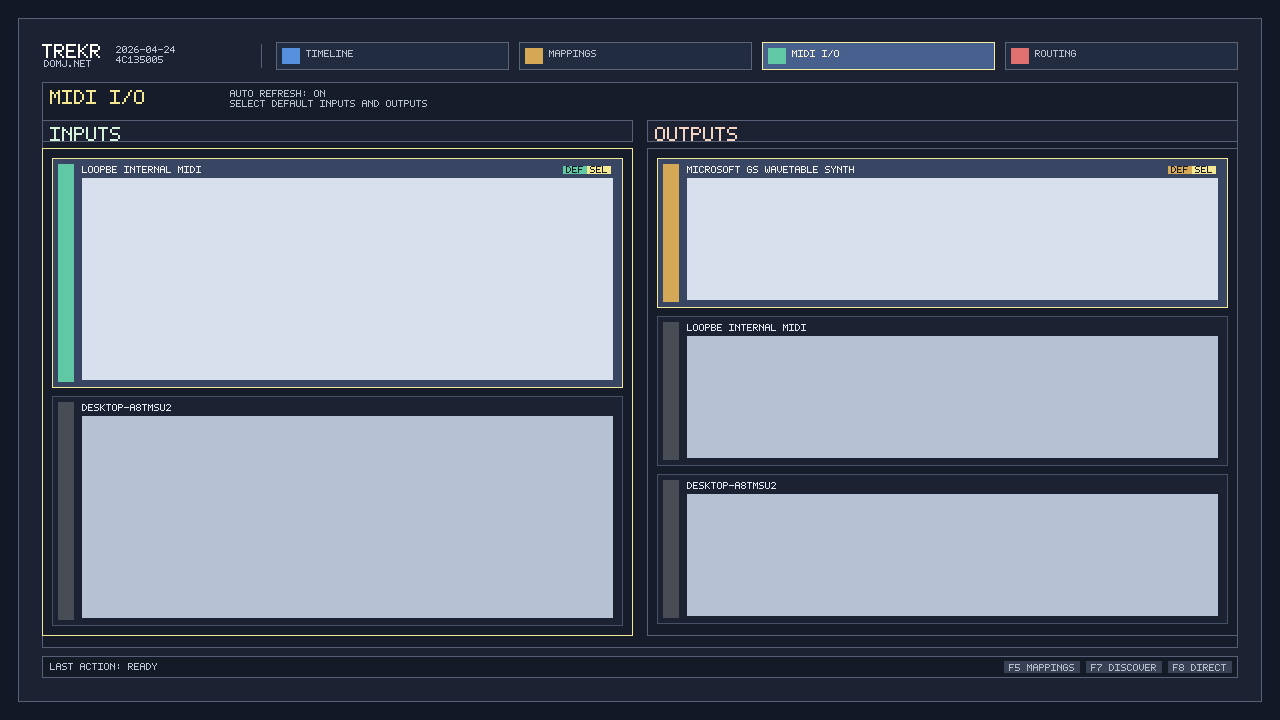
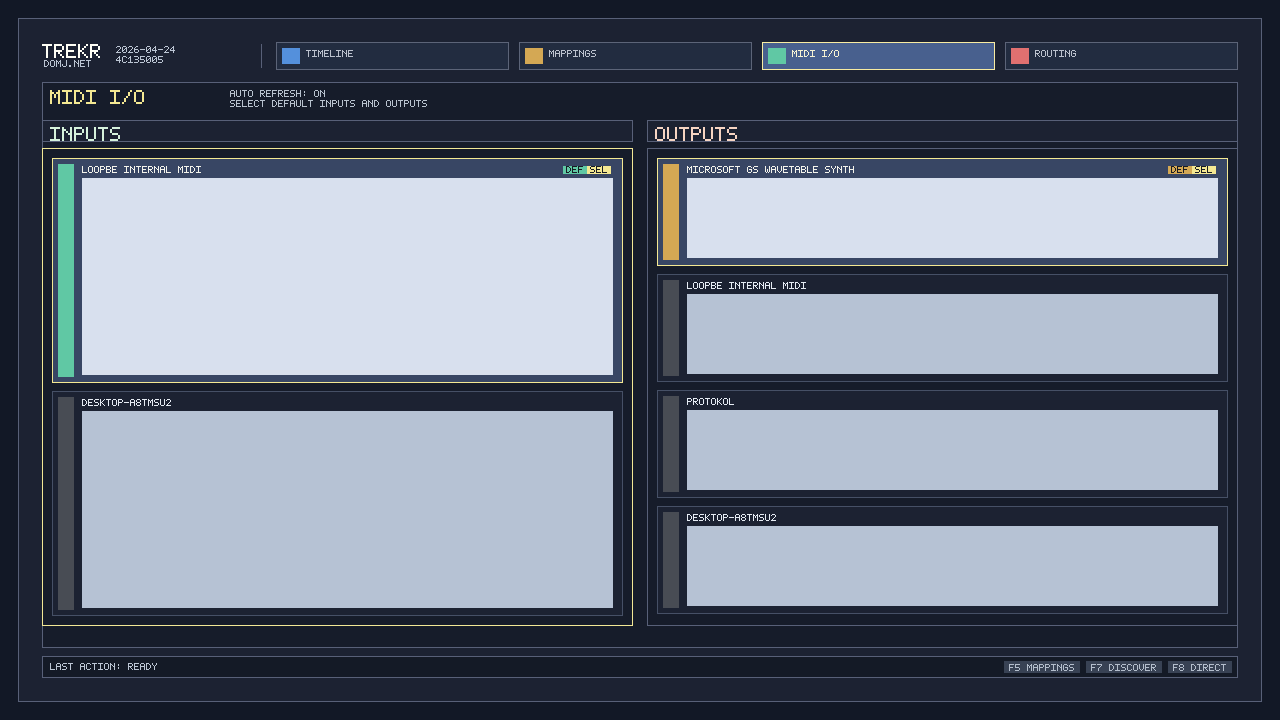
Restore default density layout parity with main

diff --git a/src/ui_density.rs b/src/ui_density.rs
@@ -69,13 +69,17 @@ pub struct UiMetrics {
     pub mapping_badge_height_px: u32,
     pub mapping_header_y_px: i32,
     pub mapping_list_y_px: i32,
+    pub mapping_list_bottom_inset_px: i32,
     pub mapping_footer_height_px: u32,
+    pub mapping_footer_bottom_inset_px: i32,
     pub mapping_row_height_px: u32,
     pub mapping_row_gap_px: i32,
     pub mappings_side_inset_px: i32,
     pub midi_header_height_px: u32,
     pub midi_header_gap_px: i32,
     pub midi_panel_header_height_px: u32,
+    pub midi_list_top_gap_px: i32,
+    pub midi_list_bottom_gap_px: i32,
     pub midi_list_inset_px: i32,
     pub midi_column_gap_px: i32,
     pub routing_inset_x_px: i32,
@@ -115,13 +119,17 @@ const DEFAULT_METRICS: UiMetrics = UiMetrics {
     mapping_badge_height_px: 16,
     mapping_header_y_px: 30,
     mapping_list_y_px: 44,
+    mapping_list_bottom_inset_px: 24,
     mapping_footer_height_px: 12,
+    mapping_footer_bottom_inset_px: 8,
     mapping_row_height_px: 18,
     mapping_row_gap_px: 3,
     mappings_side_inset_px: 8,
     midi_header_height_px: 28,
     midi_header_gap_px: 10,
     midi_panel_header_height_px: 22,
+    midi_list_top_gap_px: 6,
+    midi_list_bottom_gap_px: 28,
     midi_list_inset_px: 10,
     midi_column_gap_px: 14,
     routing_inset_x_px: 12,
@@ -161,13 +169,17 @@ const COMPACT_METRICS: UiMetrics = UiMetrics {
     mapping_badge_height_px: 14,
     mapping_header_y_px: 26,
     mapping_list_y_px: 38,
+    mapping_list_bottom_inset_px: 20,
     mapping_footer_height_px: 10,
+    mapping_footer_bottom_inset_px: 6,
     mapping_row_height_px: 16,
     mapping_row_gap_px: 2,
     mappings_side_inset_px: 6,
     midi_header_height_px: 24,
     midi_header_gap_px: 8,
     midi_panel_header_height_px: 18,
+    midi_list_top_gap_px: 4,
+    midi_list_bottom_gap_px: 22,
     midi_list_inset_px: 8,
     midi_column_gap_px: 10,
     routing_inset_x_px: 10,
@@ -207,13 +219,17 @@ const TOUCH_METRICS: UiMetrics = UiMetrics {
     mapping_badge_height_px: 20,
     mapping_header_y_px: 34,
     mapping_list_y_px: 50,
+    mapping_list_bottom_inset_px: 30,
     mapping_footer_height_px: 14,
+    mapping_footer_bottom_inset_px: 10,
     mapping_row_height_px: 22,
     mapping_row_gap_px: 4,
     mappings_side_inset_px: 10,
     midi_header_height_px: 34,
     midi_header_gap_px: 12,
     midi_panel_header_height_px: 26,
+    midi_list_top_gap_px: 8,
+    midi_list_bottom_gap_px: 34,
     midi_list_inset_px: 12,
     midi_column_gap_px: 16,
     routing_inset_x_px: 16,
@@ -253,13 +269,17 @@ const TINY_METRICS: UiMetrics = UiMetrics {
     mapping_badge_height_px: 12,
     mapping_header_y_px: 24,
     mapping_list_y_px: 34,
+    mapping_list_bottom_inset_px: 18,
     mapping_footer_height_px: 10,
+    mapping_footer_bottom_inset_px: 6,
     mapping_row_height_px: 14,
     mapping_row_gap_px: 2,
     mappings_side_inset_px: 6,
     midi_header_height_px: 22,
     midi_header_gap_px: 6,
     midi_panel_header_height_px: 18,
+    midi_list_top_gap_px: 4,
+    midi_list_bottom_gap_px: 18,
     midi_list_inset_px: 6,
     midi_column_gap_px: 8,
     routing_inset_x_px: 8,

diff --git a/src/app/midi_io_page.rs b/src/app/midi_io_page.rs
@@ -32,28 +32,28 @@ impl App {
             output_bounds.width(),
             metrics.midi_panel_header_height_px,
         );
-        let list_top_gap = metrics.panel_gap_px - 2;
-        let list_bottom_gap = metrics.panel_gap_px + metrics.midi_list_inset_px;
         Ok(MidiIoPageLayout {
             header_bounds,
             input_header,
             output_header,
             input_list: Rect::new(
                 input_bounds.x,
-                input_header.y + input_header.height() as i32 + list_top_gap,
+                input_header.y + input_header.height() as i32 + metrics.midi_list_top_gap_px,
                 input_bounds.width(),
-                input_bounds
-                    .height()
-                    .saturating_sub(input_header.height().saturating_add(list_bottom_gap as u32)),
+                input_bounds.height().saturating_sub(
+                    input_header
+                        .height()
+                        .saturating_add(metrics.midi_list_bottom_gap_px.max(0) as u32),
+                ),
             ),
             output_list: Rect::new(
                 output_bounds.x,
-                output_header.y + output_header.height() as i32 + list_top_gap,
+                output_header.y + output_header.height() as i32 + metrics.midi_list_top_gap_px,
                 output_bounds.width(),
                 output_bounds.height().saturating_sub(
                     output_header
                         .height()
-                        .saturating_add(list_bottom_gap as u32),
+                        .saturating_add(metrics.midi_list_bottom_gap_px.max(0) as u32),
                 ),
             ),
         })
@@ -377,5 +377,17 @@ mod tests {
 
         app.apply_action(AppAction::AdjustPageItemForward);
         assert_eq!(app.page_state.midi_io.focus, MidiIoListFocus::Outputs);
+    }
+
+    #[test]
+    fn midi_io_layout_matches_origin_main_at_default_density() {
+        let app = App::new();
+        let layout = app.midi_io_page_layout(Rect::new(0, 0, 800, 600)).unwrap();
+
+        assert_eq!(layout.header_bounds, Rect::new(0, 0, 800, 28));
+        assert_eq!(layout.input_header, Rect::new(0, 38, 393, 22));
+        assert_eq!(layout.output_header, Rect::new(407, 38, 393, 22));
+        assert_eq!(layout.input_list, Rect::new(0, 66, 393, 512));
+        assert_eq!(layout.output_list, Rect::new(407, 66, 393, 512));
     }
 }

diff --git a/src/app/mapping/page.rs b/src/app/mapping/page.rs
@@ -20,7 +20,9 @@ impl App {
         let footer_height = metrics.mapping_footer_height_px;
         let footer_bounds = Rect::new(
             content_bounds.x + side_inset,
-            content_bounds.y + content_bounds.height() as i32 - footer_height as i32 - side_inset,
+            content_bounds.y + content_bounds.height() as i32
+                - footer_height as i32
+                - metrics.mapping_footer_bottom_inset_px,
             content_bounds
                 .width()
                 .saturating_sub((side_inset * 2).max(0) as u32),
@@ -32,10 +34,10 @@ impl App {
             content_bounds
                 .width()
                 .saturating_sub((side_inset * 2).max(0) as u32),
-            footer_bounds
-                .y
-                .saturating_sub(content_bounds.y + metrics.mapping_list_y_px + side_inset)
-                .max(0) as u32,
+            content_bounds
+                .height()
+                .saturating_sub(metrics.mapping_list_y_px.max(0) as u32)
+                .saturating_sub(metrics.mapping_list_bottom_inset_px.max(0) as u32),
         );
         MappingsPageLayout {
             overview_badge: Rect::new(
@@ -1212,6 +1214,21 @@ mod tests {
             cells[mapping_field_index(MappingField::SourceDevice)].x
                 < cells[mapping_field_index(MappingField::SourceValue)].x
         );
+    }
+
+    #[test]
+    fn mappings_page_layout_matches_origin_main_at_default_density() {
+        let app = App::new();
+        let layout = app.mappings_page_layout(Rect::new(0, 0, 800, 600));
+
+        assert_eq!(layout.overview_badge, Rect::new(200, 8, 188, 16));
+        assert_eq!(layout.learn_badge, Rect::new(392, 8, 136, 16));
+        assert_eq!(layout.direct_badge, Rect::new(532, 8, 154, 16));
+        assert_eq!(layout.header_row, Rect::new(8, 30, 784, 10));
+        assert_eq!(layout.list_bounds, Rect::new(8, 44, 784, 532));
+        assert_eq!(layout.footer_bounds, Rect::new(8, 580, 784, 12));
+        assert_eq!(layout.row_height, 18);
+        assert_eq!(layout.row_gap, 3);
     }
 
     #[test]

diff --git a/artifacts/reviews/ui-findings.md b/artifacts/reviews/ui-findings.md
@@ -1,17 +1,15 @@
 Findings
 
-1. **severity: high** | **screenshot/page:** `timeline.png` and `timeline-focused.png` | **issue:** Top control bands are overly dense (many tiny toggles/labels in one horizontal strip), so state is hard to scan quickly and key mode info gets lost. | **brief suggested fix:** Group controls into 2–3 labeled clusters with more vertical spacing and stronger emphasis on active states.
+1. **severity: medium** | **screenshot/page:** `timeline.png` | **issue:** Top control strip is overly dense (`WRAP EXTEND`, `SONG LOOP ON`, `TEMPO 120`, `HARMONY C`, `NOTEADD OFF`, plus transport/launch controls), making scan order and grouping hard to parse quickly. | **brief suggested fix:** Split into 2 clearly labeled groups (song/loop settings vs transport/launch), with larger horizontal gaps and consistent group headers.
 
-2. **severity: high** | **screenshot/page:** `timeline.png` | **issue:** Per-track column headers and control labels are very small and visually crowded, making track-level actions difficult to understand at a glance. | **brief suggested fix:** Increase header text size/line height and reduce simultaneous visible metadata in each track card.
+2. **severity: medium** | **screenshot/page:** `timeline-focused.png` | **issue:** Focused state is not immediately obvious beyond the `TRACK T1` pill; the rest of the layout still looks like the full timeline page, reducing state clarity. | **brief suggested fix:** Add a stronger focused-mode cue (page subtitle contrast, dim non-focused controls, or a persistent “Focused Track View” badge in the main canvas header).
 
-3. **severity: medium** | **screenshot/page:** `timeline.png` | **issue:** Bottom FX chips in track columns appear truncated/clipped (long labels compressed into narrow chips). | **brief suggested fix:** Add truncation with ellipsis + tooltip/full label region, or increase chip width/allow wrap in that row.
+3. **severity: low** | **screenshot/page:** `mappings.png` | **issue:** Table columns are visually crowded; `TYPE/DEVICE/SOURCE/TARGET/SCOPE/ON` headers are small relative to row density, so row parsing is slow. | **brief suggested fix:** Increase header contrast/size and add slightly more vertical row spacing or alternating row tint for easier scanning.
 
-4. **severity: medium** | **screenshot/page:** `mappings.png` | **issue:** Table columns are inconsistent in information density (very wide `TARGET`, very narrow `ON`), which weakens scan rhythm and makes status feel secondary. | **brief suggested fix:** Rebalance column widths and promote status columns (`SCOPE`, `ON`) with clearer alignment and stronger visual affordance.
+4. **severity: medium** | **screenshot/page:** `mappings-overlay.png` | **issue:** Overlay command hints (`F5 CLOSE`, `W WRITE`) are understated and easy to miss, so overlay state/actionability is weak. | **brief suggested fix:** Promote overlay actions into a distinct high-contrast action bar with clearer verb labels (e.g., `Close Overlay`, `Write Mapping`).
 
-5. **severity: medium** | **screenshot/page:** `mappings-overlay.png` vs `mappings.png` | **issue:** Overlay uses different column vocabulary/layout (`TRIGGER/ACTION`) than the main mappings page (`TYPE/DEVICE/SOURCE/TARGET`), causing context switching. | **brief suggested fix:** Keep naming and column structure consistent between main page and overlay, or add explicit mapping between terms.
+5. **severity: medium** | **screenshot/page:** `midi-io.png` | **issue:** Device cards contain very large empty body areas, which read like missing content rather than intentional structure; hierarchy between name/state/content is unclear. | **brief suggested fix:** Reduce empty panel height or populate with concise status/meta rows (ports, channel, activity), and tighten card padding.
 
-6. **severity: medium** | **screenshot/page:** `midi-io.png` | **issue:** Device cards contain large empty gray blocks with minimal meaning, so users can’t quickly tell enabled/armed/default states beyond tiny tags. | **brief suggested fix:** Replace empty fill areas with concise status rows (connection, channel, activity) and stronger selected/default badges.
+6. **severity: low** | **screenshot/page:** `routing.png` | **issue:** Heavy abbreviation usage (`REC/MON`, `TGL`, `P2`, `VEL`) makes controls harder to understand without prior knowledge. | **brief suggested fix:** Expand key labels or add short inline helper text/tooltips for first-use clarity.
 
-7. **severity: medium** | **screenshot/page:** `routing.png` | **issue:** Many repeated small `SET`/`+` controls are ambiguous about scope (field-level vs section-level action). | **brief suggested fix:** Add clearer grouping labels and inline hints (e.g., “Apply to field”), and differentiate primary vs secondary actions visually.
-
-8. **severity: low** | **screenshot/page:** all pages | **issue:** Footer shortcut bar (`F5/F7/F8`) has weak hierarchy and low prominence relative to the amount of workflow-critical interaction it represents. | **brief suggested fix:** Increase contrast/weight for active or recommended shortcut and align shortcut styling with current page state.
+7. **severity: low** | **screenshot/page:** `routing.png` | **issue:** Multiple colored sections compete equally for attention, weakening primary hierarchy (active track route vs secondary FX settings). | **brief suggested fix:** Reserve strongest contrast for primary route path and mute secondary panels until selected/focused.
